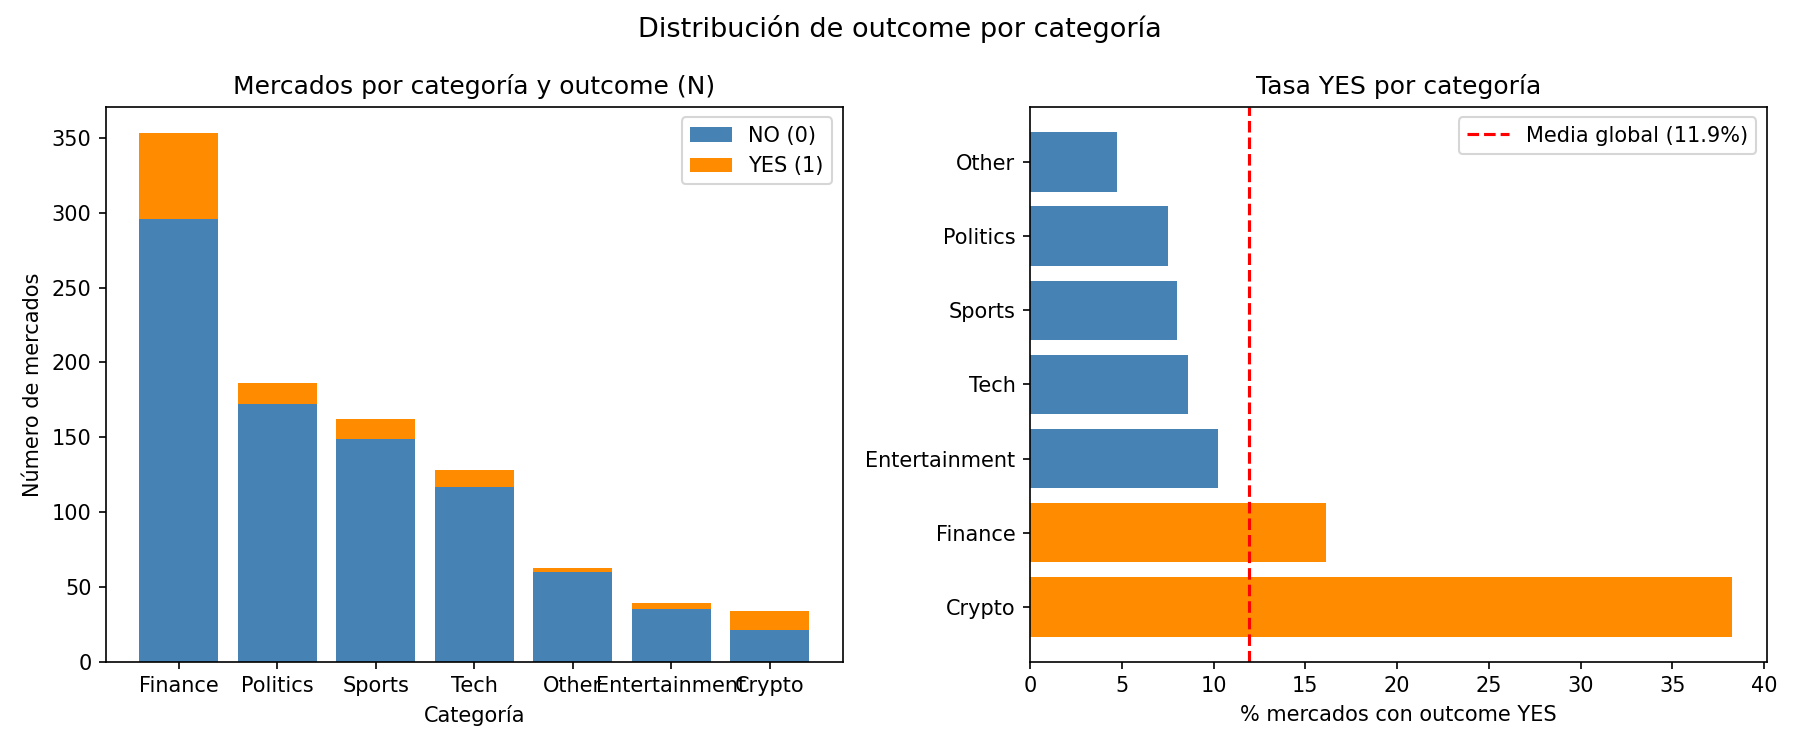
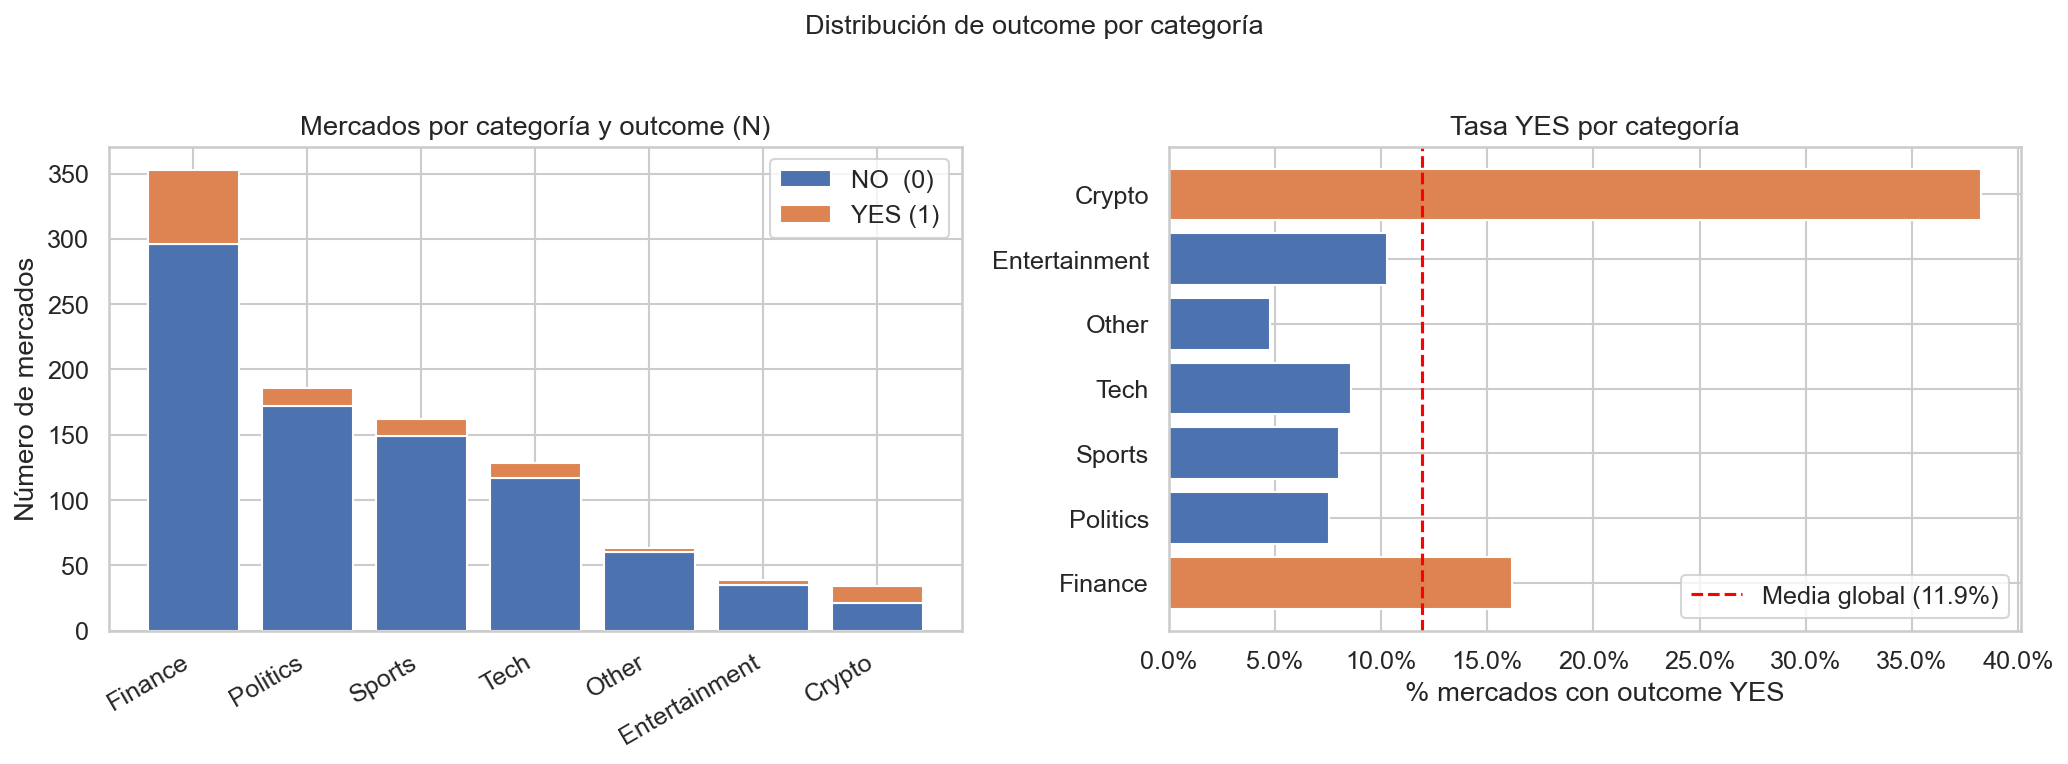
Re-ejecucion notebook EDA con categorizacion v2 y actualizacion informe
- 02_eda.ipynb: re-ejecutado con categorization.py v2 (Finance=37%, Other=6.5%)
- reports/figures: cat_distribution.png y target_by_category.png actualizados a v2
- data/interim/eda_dataset.parquet: regenerado con categorias v2
- informe_final.md: agrega 02_eda.ipynb a tabla de estructura de archivos
- dataset.xlsx: agregado al repositorio

diff --git a/reports/informe_final.md b/reports/informe_final.md
@@ -1007,4 +1007,5 @@ En LR-MIN, el único coeficiente con interpretación directa es el de `precio_fi
 | `models/best_tree_model.pkl` | Modelo campeón GB serializado |
 | `data/processed/scaler.pkl` | StandardScaler ajustado sobre train |
 | `reports/fase7_analysis.json` | Resultados numéricos completos de Fase 7 |
-| `notebooks/05_analisis_resultados.ipynb` | Análisis completo ejecutado con figuras embebidas |
+| `notebooks/02_eda.ipynb` | EDA completo ejecutado con figuras embebidas |
+| `notebooks/05_analisis_resultados.ipynb` | Análisis post-entrenamiento (Fase 7) ejecutado con figuras embebidas |